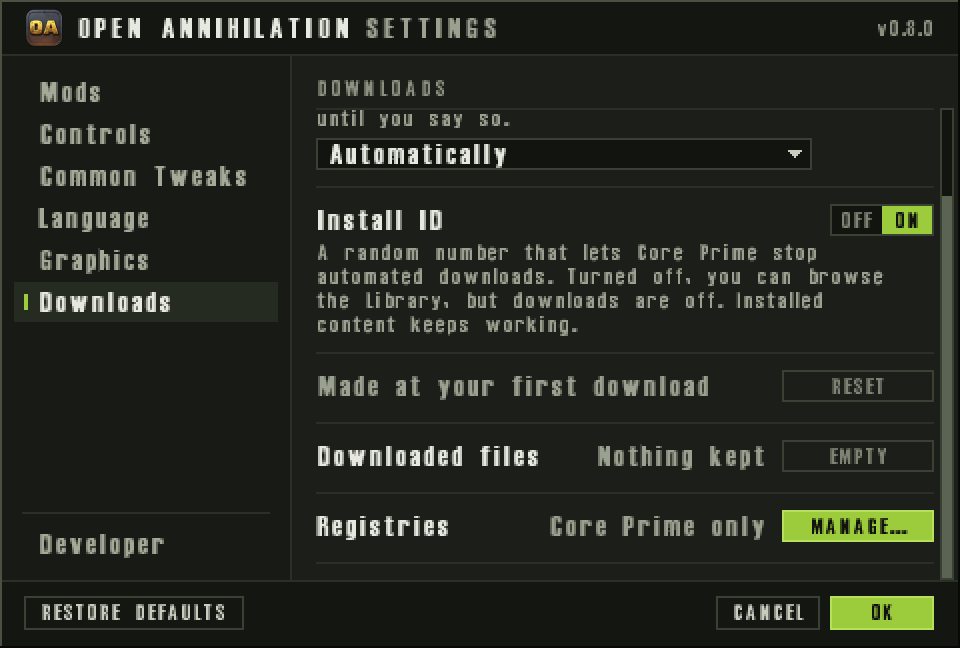
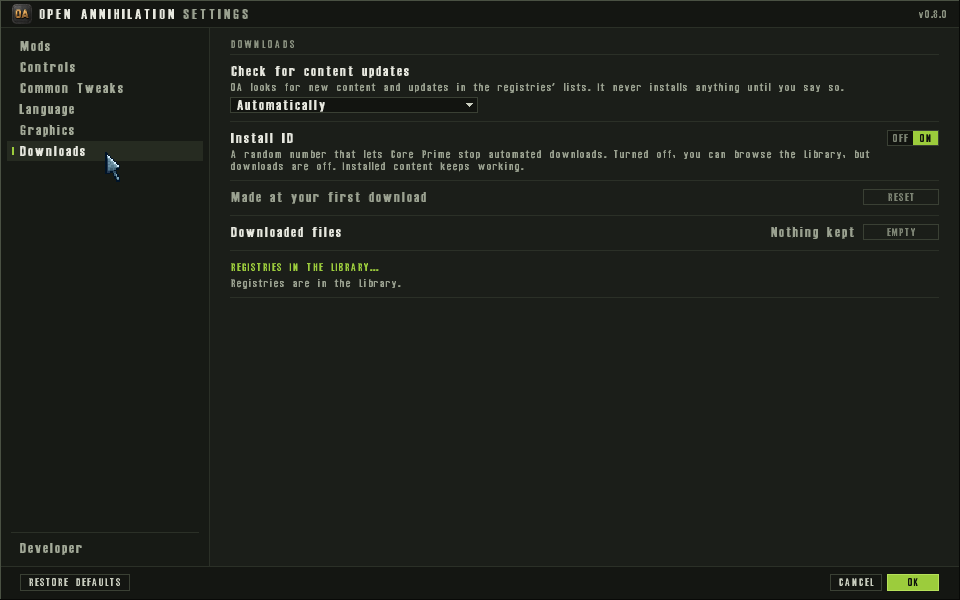
(docs) Describe registries in the Library

diff --git a/docs/downloads.md b/docs/downloads.md
@@ -49,18 +49,20 @@ a key at a time: installing the same key from another registry replaces
 the copy you have, and a mod from a registry you added, or any map pack,
 asks first ([which downloads ask first](library.md#which-downloads-ask-first)).
 
-Settings › Downloads lists the registries under **MANAGE…**
-([picture](settings.md#downloads)).
+The Library's **Registries** tab lists them
+([the Registries tab](library.md#the-registries-tab)). Settings ›
+Downloads, on the main menu, has **REGISTRIES IN THE LIBRARY…**, which
+opens the Library on that tab ([picture](settings.md#downloads)).
 
 ### Core Prime's registry
 
 Core Prime's registry is built into Open Annihilation. Its descriptor ships
 in the `registries` folder beside the game, and the key that signs its
 catalogue is compiled into the engine, so no one else can sign a list OA
-takes for Core Prime's. Its row in the Registries part says "Built in", how
-many packages it lists and when its list was last checked ("1 package ·
-checked 4 min ago"). It can be turned off, but not removed, so it is always
-one switch away. Its packages are published by the OA team.
+takes for Core Prime's. Its row on the Library's Registries tab says
+"Built in", how many packages it lists and when its list was last checked
+("1 package · checked 4 min ago"). It can be turned off, but not removed,
+so it is always one switch away. Its packages are published by the OA team.
 
 A download from Core Prime's registry installs when you press its button,
 GET, UPDATE, UPDATE ALL, a language in Settings › Language or the
@@ -73,8 +75,8 @@ Prime ([which downloads ask first](library.md#which-downloads-ask-first)).
 
 OA suggests no registry: you add each one yourself. There are three ways:
 
-- **By its address.** In Settings › Downloads, press **MANAGE…**, then
-  **ADD REGISTRY…** at the foot of the dialog, type the address of the
+- **By its address.** On the Library's Registries tab, press
+  **ADD REGISTRY…** at the left of the footer, type the address of the
   registry's descriptor (`http://…`, for example
   `http://maps.example.org/oa/registry.yaml`) and press **CHECK**. Use the
   `http://` address: an `https://` one is refused ("Use the registry's
@@ -126,7 +128,7 @@ The OA team publishes the packages in Core Prime's registry. Packages from
 a registry you added are marked "Not reviewed by the OA team" in the
 Library's details ("*registry* · Not reviewed by the OA team"), "not
 reviewed" on the registry's row and in Settings › Language, and the
-Registries part says under its list: "Content from registries other than
+Registries tab says under its list: "Content from registries other than
 Core Prime isn't reviewed by the OA team. OA still checks every package
 before using it."
 
@@ -139,14 +141,13 @@ replaces a copy you did not get from that registry
 
 ### Turning a registry off, and removing it
 
-In the Registries part each registry has a switch. Off, its packages leave
-the Library and nothing downloads from it; what you installed from it keeps
-working. A registry you added also has **REMOVE**, which marks it
-("Removed when you press OK", with **UNDO** to take it back): OK forgets
-the registry and the list OA kept of it, and leaves what you installed
-from it in place. The switches and removals take effect when you press OK,
-and Cancel puts them back. Core Prime's registry can be turned off, never
-removed. Turning a registry on fetches its list at once.
+On the Library's Registries tab each registry has a switch. Off, its
+packages leave the Library at once and nothing downloads from it; what you
+installed from it keeps working. A registry you added also has **REMOVE**,
+which forgets the registry and the list OA kept of it at once, and leaves
+what you installed from it in place. **CLOSE** does not put a switch or a
+removal back. Core Prime's registry can be turned off, never removed.
+Turning a registry on fetches its list at once.
 
 ### Mirrors
 
@@ -181,8 +182,9 @@ and serve one, and how to sign its catalogue.
 ## The Downloads settings
 
 Settings › Downloads ([pictures](settings.md#downloads)) holds when OA
-checks for content, the install ID, the files downloads keep, and the
-registries.
+checks for content, the install ID and the files downloads keep. The
+registries are on the Library's Registries tab. On the main menu,
+**REGISTRIES IN THE LIBRARY…** opens it there.
 
 ### When OA checks for content
 

diff --git a/docs/settings.md b/docs/settings.md
@@ -3,7 +3,8 @@
 Open Annihilation adds settings of its own to the game: which mod to play,
 a few controls, the unit limit, the language and fonts of the game's text,
 graphics and the size of Open Annihilation's own screens, touch and gamepad
-controls, downloads and the registries they come from, and Developer Mode.
+controls, downloads, and Developer Mode. The registries packages come
+from are a tab of the Library.
 They live in one dialog, apart from the game's own options, which stay in
 3.1c's Options menu. This page shows each section of the dialog and says
 what every setting does, its default, when it takes effect and when you
@@ -642,12 +643,13 @@ them.
 
 ![The top of the Downloads section: Check for content updates at Automatically, Install ID On with its hint, the ID's row reading "Made at your first download" with a RESET button, and Downloaded files.](images/settings/downloads-1.png)
 
-![The rest of the Downloads section, scrolled to its end: Install ID On, "Made at your first download", Downloaded files reading "Nothing kept" with an EMPTY button, and Registries reading "Core Prime only" with a MANAGE… button.](images/settings/downloads-2.png)
+![The Downloads section: Check for content updates at Automatically, Install ID On, "Made at your first download" with RESET, Downloaded files reading "Nothing kept" with EMPTY, and REGISTRIES IN THE LIBRARY… with the line "Registries are in the Library."](images/settings/downloads-2.png)
 
 Downloads says when Open Annihilation looks for new content, holds the
-install ID a registry asks for, keeps the files downloads leave behind, and
-lists the registries content comes from. [Downloads and privacy](downloads.md)
-explains each of them, and what a download sends and records.
+install ID a registry asks for, and keeps the files downloads leave behind.
+The registries themselves are in the Library.
+[Downloads and privacy](downloads.md) explains each of them, and what a
+download sends and records.
 
 - **Check for content updates**, Automatically, Only when I open the
   Library or Never, Automatically by default: when OA fetches the
@@ -671,24 +673,15 @@ explains each of them, and what a download sends and records.
 - **Downloaded files**: how much the download folder keeps for resuming and
   repairs, or "Nothing kept". **EMPTY** removes those files at once; it is
   greyed while nothing is kept, or while a download is using them.
-- **Registries**: which registries are on, "Core Prime only", "2 on of 3"
-  or "None", and **MANAGE…**, which shows the Registries part:
+- **REGISTRIES IN THE LIBRARY…**, on the main menu only: opens the Library
+  on its Registries tab, where every registry is listed, switched, removed
+  or added. The line under it says "Registries are in the Library." During
+  a game the row is not listed. [The Registries tab](library.md#the-registries-tab)
+  and [Registries](downloads.md#registries) explain adding one, mirrors and
+  what "not reviewed" means.
 
-![The Registries part of the Downloads section: the heading DOWNLOADS · REGISTRIES beside a ‹ DOWNLOADS link, the Core Prime row with its CP mark, a Built in label, "1 package · checked 4 min ago" and its switch On, a note that content from registries other than Core Prime isn't reviewed by the OA team, and ADD REGISTRY… in the footer.](images/settings/downloads-registries.png)
-
-The Registries part lists Core Prime's registry, which is built in and can
-be turned off but not removed, then each registry you added, with its
-address, how many packages it lists and "not reviewed". Each has a switch;
-an added registry also has **REMOVE** ("Removed when you press OK", with
-**UNDO**) and **ADD MIRROR…**. **ADD REGISTRY…** takes Restore defaults'
-place in the footer. The switches and removals take effect at OK, and
-Cancel puts them back; a registry or mirror you add is added at once.
-**‹ DOWNLOADS** goes back. [Registries](downloads.md#registries) explains
-adding one, mirrors and what "not reviewed" means.
-
-During a game RESET and EMPTY are locked ("Locked during a game."), and so
-are ADD REGISTRY… and ADD MIRROR… ("Choose from the main menu."); the rest
-can still change.
+During a game RESET and EMPTY are locked ("Locked during a game."). The
+check and the install-ID switch can still change.
 
 ## Developer
 

diff --git a/docs/library.md b/docs/library.md
@@ -23,6 +23,7 @@ settings and exactly what a download sends and records.
 - [Installing](#installing)
 - [The download queue](#the-download-queue)
 - [Updates](#updates)
+- [The Registries tab](#the-registries-tab)
 - [Which downloads ask first](#which-downloads-ask-first)
 - [The update question](#the-update-question)
 - [Rolling back](#rolling-back)
@@ -88,9 +89,11 @@ updated and played.
 
 ## Tabs and states
 
-The tabs are **Active**, **Mods**, **Maps**, **Languages** and
-**Updates** ("Lang" and "Upd" in the Compact layout). Updates carries the
-number of updates you can install now.
+The tabs are **Active**, **Mods**, **Maps**, **Languages**, **Updates**
+and **Registries** ("Lang", "Upd" and "Reg" in the Compact layout).
+Updates carries the number of updates you can install now. Registries
+is last, and it is where registries are added, checked and turned off
+([the Registries tab](#the-registries-tab)).
 
 Each row shows the package's badge (its own picture, or up to three
 letters), its name, its version ("4.8 · rev 4" from its second packaging
@@ -322,6 +325,54 @@ An update shows:
 **UPDATE** and **UPDATE ALL** start updates; OA finds updates by itself, but
 never installs one on its own. A mod that changes its rules is your call,
 mid-campaign above all.
+
+## The Registries tab
+
+**Registries** is the last tab. It lists every registry the packages come
+from, with no search and no filters. Turning one off, or removing one,
+changes the other tabs at once: its packages leave the lists as soon as
+the switch or **REMOVE** is pressed.
+
+Each row shows:
+
+- an avatar, the name's initials in a square: the first letters of its
+  first three words, or of a name of one word its first two letters;
+- the name, and a **Built in** chip when the registry ships with the game;
+- a subtitle. A built-in registry's says how many packages it lists and
+  when its list was last checked ("1 package · checked 4 min ago", or
+  "not checked yet" before the first check). One you added says its
+  address, how many packages and "not reviewed"
+  ("maps.example.org · 31 packages · not reviewed"), then how many mirrors
+  you added (" · 2 mirrors"). When the last check found nothing usable it
+  says "couldn't reach", and "list from *age*" when a list was kept;
+- an Off/On switch.
+
+A registry you added also has **REMOVE** and **ADD MIRROR…** under the
+subtitle. **REMOVE** forgets the registry at once and leaves what you
+installed from it in place. Core Prime's registry can be turned off and
+never removed, and it has no **ADD MIRROR…**: its mirrors come only from
+its own catalogue. Turning a registry on fetches its list at once.
+
+Under the list a note says "Content from registries other than Core Prime
+isn't reviewed by the OA team. OA still checks every package before using
+it.", naming every built-in registry ("Core Prime and North", "Core Prime,
+North and West"), or, when none is built in, "Content from these
+registries isn't reviewed by the OA team. …". When a change is refused,
+the reason stands over the note ("OA could not change the registries:
+…").
+
+**ADD REGISTRY…** sits at the left of the footer, beside **SETTINGS…** and
+**CLOSE**. It opens the same Add registry window as opening an `.oareg`
+file: the address or "From *file*", the fingerprints of the keys, and
+"Not reviewed by the OA team"
+([adding a registry](downloads.md#adding-a-registry)). **CLOSE** leaves a
+switch or a removal as it was stored. During a game **ADD REGISTRY…** and
+**ADD MIRROR…** are locked ("Choose from the main menu."); the switches
+and **REMOVE** stay.
+
+The rows and the note scroll together when they are taller than the
+window. Settings › Downloads, on the main menu, has **REGISTRIES IN THE
+LIBRARY…**, which opens the Library on this tab.
 
 ## Which downloads ask first
 

diff --git a/docs/automation.md b/docs/automation.md
@@ -195,6 +195,7 @@ centre would land on the line between Off and On.
 | A row's own button (MANAGE…) | `oa.settings.<row>.<button>`, as `oa.settings.game-files-summary.manage` | button |
 | Your files' buttons | `oa.settings.user-folder.saves`, `.screenshots`, `.mods` | button |
 | Language's MORE IN THE LIBRARY… (main menu only) | `oa.settings.more-in-library` | button |
+| Downloads' REGISTRIES IN THE LIBRARY… (main menu only) | `oa.settings.registries-in-library` | button; opens the Library on its Registries tab |
 | A mod's row and its ROLL BACK | `oa.settings.mod.<mod>.switch`, `oa.settings.mod.<mod>.roll-back`; OPEN MODS FOLDER `oa.settings.open-mods-folder` | check box, checked on the mod played; button |
 | Developer's own controls | `oa.settings.developer-mode.off`/`.on`, `oa.settings.frame-stats.off`/`.on`, `oa.settings.kit-gallery.show` (SHOW, which opens the UI kit gallery), `oa.settings.active-only.off`/`.on`, `oa.settings.restore-profile-values` | as above |
 | Developer's list | `oa.settings.hack-area.<area>`, `oa.settings.hack.<hack>` (its header, with its switch's `.off`/`.on`), `oa.settings.hack.<hack>.<parameter>` (a switch's with `.off`/`.on`) | the headers check boxes, a hack's checked while it is on; a parameter's switch as above, its slider a slider |
@@ -205,7 +206,8 @@ centre would land on the line between Off and On.
 | A prompt's buttons | `oa.<word>.<id>`, or `oa.<word>.button-<n>` from 1 where a button has no id | button |
 | A notice's or a prompt's words | `oa.<word>.body` | label; its title and paragraphs, one a line |
 | The UI kit gallery's working samples, in dialog `oa.gallery` | `oa.gallery.<section>.<n>` from 1, as `oa.gallery.toggle.1` (with `.off`/`.on`), `oa.gallery.drop-down.1`; CLOSE `oa.gallery.close` | as above, by kind |
-| The Library's tabs, in dialog `oa.library` | `oa.library.tab.<tab>`: `active`, `mods`, `maps`, `languages`, `updates`, in that order | check box, checked on the tab shown; the Library opens on `active` when no tab is asked for; `updates`' text holds the updates that can be installed, "Updates 2" |
+| The Library's tabs, in dialog `oa.library` | `oa.library.tab.<tab>`: `active`, `mods`, `maps`, `languages`, `updates`, `registries`, in that order, so the last is `oa.library.tab.registries` | check box, checked on the tab shown; the Library opens on `active` when no tab is asked for; `updates`' text holds the updates that can be installed, "Updates 2" |
+| The Library's Registries tab | `oa.library.registry.<id>` with its halves `.off` and `.on`, and for a registry the player added `.remove` and `.add-mirror`; `oa.library.add-registry`; the labels `oa.library.registries.note` and `oa.library.registries.notice` | the switch a label, its halves check boxes; REMOVE, ADD MIRROR… and ADD REGISTRY… buttons; the labels' text the note under the list and, while a change was refused, why |
 | The Library's filters | `oa.library.filter.<filter>`: `all`, `new`, `installed`, `updates`; at Compact the drop-down `oa.library.filter`, its open items under the same names | a chip a button, a column's entry or an open item a check box, checked on the tab's own filter; the text the filter and how many packages it holds on the tab, whatever the tag and the search: "Installed (4)"; the drop-down a button, its text the choice shown |
 | The Library's Active tab | `oa.library.active.mod`, `oa.library.active.language`, `oa.library.active.map.<n>` from 1 in the order shown | label, its text the line shown: "Ridge 4.8 · rev 3" or "No mod is played"; "Deutsch 1.2" or "English · built in"; "Ridgeline · 4 players · 16x16"; none takes a press |
 
